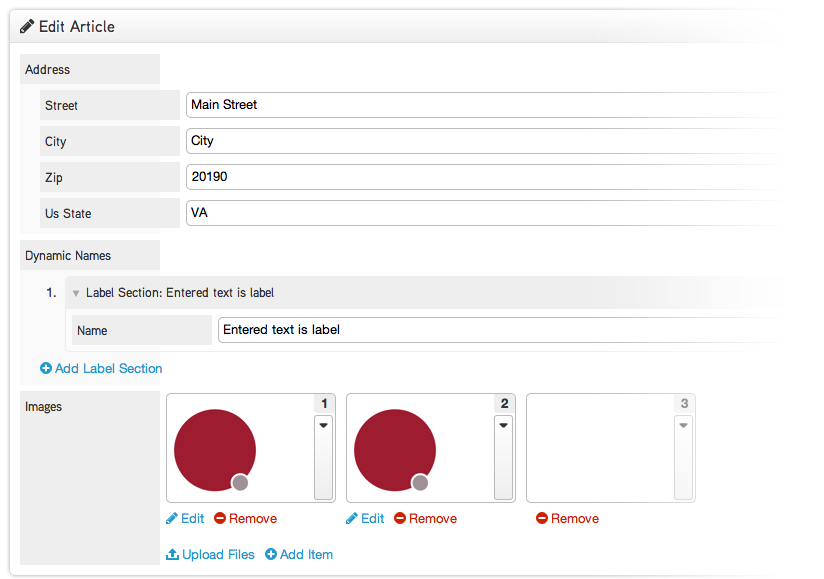
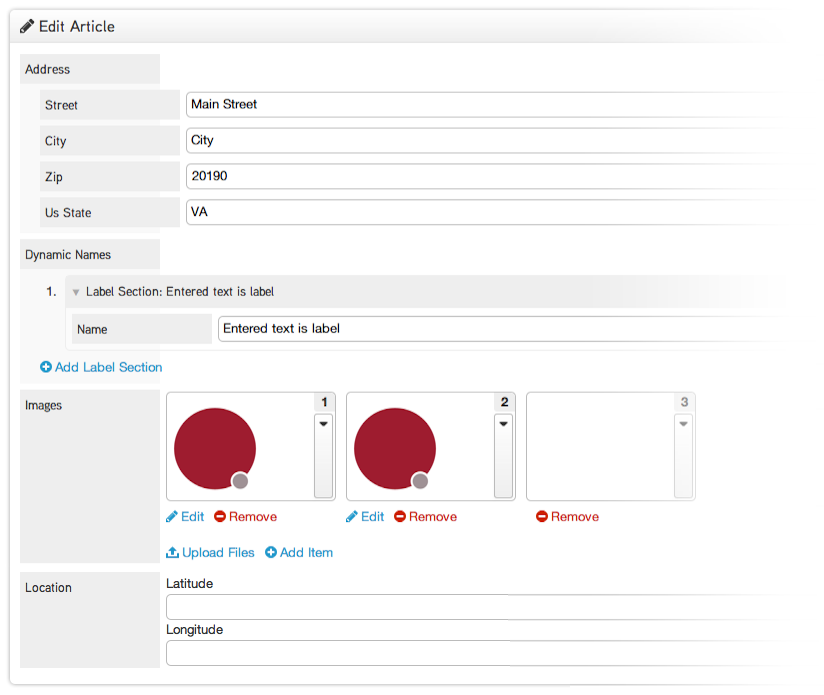
Adding new User Profile docs and updating UI creation doc

diff --git a/docs/documentation/new-content.html b/docs/documentation/new-content.html
@@ -96,27 +96,17 @@ public class Article extends Content {
                     <div class="title" style="width: 300px;">List of Media Items</div>
                     <div style="width:300px!important;" class="description">A list of items containing a StorageItem, where <code>@PreviewField("file")</code> references the StorageItem field automatically creates a quick bulk upload user interface</div>
                 </div>
+            </div>
+            <div class="highlight-line left" style="top: 620px; width: 300px;">
+            <div class="highlight-box">
+                    <div class="title" style="width: 300px;">Location</div>
+                    <div style="width:300px!important;" class="description">Allow Latitude and Longitude to be set using the Dari Location type. Add <code>private Location location;</code> to your class.</div>
+                </div>
             </div>                     
             <img width="690" style="margin-left:320px;" class="shadow" src="img/developer/article-ui-advanced.png"/>
             <br/>
         </div>
-    </br><p><h2>Annotations</h2>As well as automatically generating the user interface, directly from the Java class, Brightspot provides annotations that can be used to control and assist user input and business logic. Below are some of the most common annotations. You can see a full list <a href="/annotations.html">here</a>.</p>
-
-<div class="highlight">{% highlight java %}
-public class Article extends Content {
-
-    @Required
-    private String headline;
-    private ReferentialText body;
-    @CollectionMaximum(5)
-    private List<Tag> tags;
-    @ToolUi.Note("Add some keywords for the article")
-    private Set<String> keywords;
-
-}{% endhighlight %}</div>
-
-<p></br></br>The <code>@Indexed</code> annotation is key in defining data that you want to be able to query.
-It is a common mistake to get carried away and add the @Indexed annotation to all the fields on every class you create. Doing so creates extra potentially unnecessary rows in the underlying database and can lead to poor performance in systems with large amounts of data. Only add the annotation to fields that you think you will query on. We have added the annotation to the Author property, as we may want to query for all the articles by a particular author. For more information on Querying with Brightspot see the dedicated <a href="querying.html">Querying</a> section. </p>
+<br><br><p><h2>Annotations</h2>As well as automatically generating the user interface, directly from the Java class, Brightspot provides annotations that can be used to control and assist user input and business logic. For a walk through of some of the most common annotations, see the starter guide <a href="/using-annotations.html.html">here</a>, or see the full list <a href="/annotations.html">here</a>.</p>
 
 <p><h2>Associating Objects</h2>Once you have your first object created you can add a second. You can add a reference to an existing class, for example an Author that is associated with each Article. Associate an object by naming it as a return type in your Java class, <code>private Author author;</code>. </br></br>With objects created you can start to use annotations to control aspects of them. For example, every object within Brightspot has a LabelField, which is used to automatically create a label. As a default, the first text string field within an object is used. This label is used when returning search results within the CMS. </br></br>The Author object is a good example of when to override the default LabelField, to help label the object more clearly. The example Author object has two fields, <code>firstName</code> and <code>lastName</code>. When an Author shows up in search results you can only see the first name, as it is the first string text field. This can be fixed to show the two names, as the example below shows: </p>
 

diff --git a/docs/documentation/support.html b/docs/documentation/support.html
@@ -159,6 +159,7 @@ section: documentation
                     <li><a href="search-dari.html">Search</a></li>
                     <li><a href="caching.html">Enabling Caching</a></li>
                     <li><a href="modifications.html">Modifications</a></li>
+                    <li><a href="user-profiles.html">User Profiles</a></li>
                     <li><a href="variations.html">Variations</a></li>
                     <li><a href="multi-site.html">Multi-Site</a></li>
                     <li><a href="field-index-tables.html">Custom Field Index Tables</a></li>

diff --git a/docs/documentation/user-profiles.md b/docs/documentation/user-profiles.md
@@ -1,0 +1,51 @@
+---
+layout: default
+title: User Profiles
+id: user-profiles
+section: documentation
+---
+
+<div markdown="1" class="span12">
+
+The Tool User profile can be modified within Brightspot, allowing each user to set defaults for themselves, which can in turn be used to drive default field population as they create new content.
+
+This section looks at some of the most commonly used and helpful annotations. For a full list see the dedicated [Annotations Section](/annotations.html). 
+
+
+## Create the Modification
+
+Start by creating the modification. Modify the `ToolUser` class. This modification can be seen in Admin > Users & Roles for the User account, or in the Profile drop down in the top right of the CMS.
+
+In this example a default category is going to be provided for each user. When they create new content that has a Category object within it, it will be automatically populated with their chosen default category. Note, it can still be changed to any other category.
+
+<div class="highlight">{% highlight java %}public class ToolUserDefaults extends Modification<ToolUser> {
+
+    @ToolUi.Note("Choose your default Category")
+    private Category category;
+
+    public Category getCategory(){
+        return category;
+    }
+    
+    public void setCategory(Category category){
+        this.category = category;
+    }
+
+}{% endhighlight %}</div>
+
+## Update the Content Class
+
+When a user creates a new Blog Post, the category field will be pulled from their default settings. To do this, the following piece of code is added to the BlogPost class. Now, when a new blog is created, the logged in user's default category appears automatically.
+
+<div class="highlight">{% highlight java %}public BlogPost() {
+
+     ToolUser user = getCurrentToolUser();
+
+     if (user != null) {
+         ToolUserDefaults category = user.as(ToolUserDefaults.class);
+
+         setCategory(category.getCategory());
+     }
+ }{% endhighlight %}</div>
+
+![](http://docs.brightspot.s3.amazonaws.com/tool-user-defaults.png)

diff --git a/docs/documentation/using-annotations.md b/docs/documentation/using-annotations.md
@@ -14,7 +14,7 @@ This section looks at some of the most commonly used and helpful annotations. Fo
 
 ## Data Indexing
 
-To maximize performance, not all fields on an object are indexed automatically. By adding the `@Indexed` annotation a field is indexed, and can be queried against. Note, fields can be returned and rendered without indexing, however in order to query on a field, it must be indexed. In the example below, if we want to query for all Articles where the headline starts with A we would need the field to be `@Indexed`. See the [Querying](/querying.html) documentation for more on this.
+The `@Indexed` annotation is key in defining data that you want to be able to query. It is a common mistake to get carried away and add the @Indexed annotation to all the fields on every class you create. Doing so creates extra potentially unnecessary rows in the underlying database and can lead to poor performance in systems with large amounts of data. Only add the annotation to fields that you think you will query on. Note, fields can be returned and rendered without indexing, however in order to query on a field, it must be indexed. In the example below, if we want to query for all Articles where the headline starts with A we would need the field to be `@Indexed`. See the [Querying](/querying.html) documentation for more on this.
 
 <div class="highlight">{% highlight java %}package com.psddev.brightspot;
 
